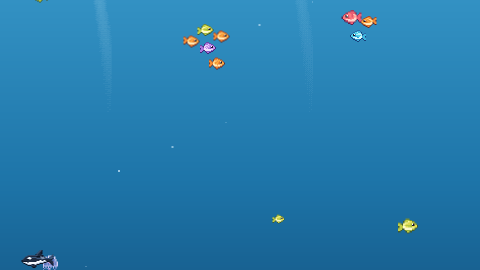
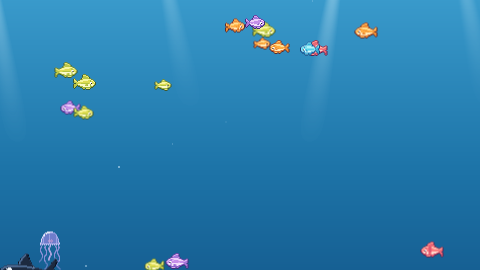
pixel theme: smooth light shafts, README, preview

diff --git a/tools/gen-pixel-theme.js b/tools/gen-pixel-theme.js
@@ -698,7 +698,7 @@ function farImg() {
     const pal = { u: hex(dim('#4a9bb8', 0.55)), v: hex(dim('#3a86a6', 0.62)), z: hex(dim('#2c6f93', 0.62)), r: hex(dim('#4f93b0', 0.58)), q: hex(dim('#356f93', 0.62)), w: hex(dim('#2d8a94', 0.6)) };
     return render(g, pal);
 }
-// light shaft 40x150: a leaning bar of light, dithered in 3 alpha steps, wider and fainter with depth
+// light shaft: a leaning bar of light with a smooth alpha profile, wider and fainter with depth
 function shaftImg() {
     const W = T.SHAFT.cols, H = T.SHAFT.rows, px = Buffer.alloc(W * H * 4);
     for (let y = 0; y < H; y++) {
@@ -707,9 +707,8 @@ function shaftImg() {
             const d = Math.abs(x - (6 + lean + half)) / half;
             if (d >= 1) continue;
             const strength = Math.pow(1 - d * d, 1.3) * Math.pow(1 - t, 1.6);
-            const lvl = Math.min(3, Math.floor(strength * 3.2 + (BAYER[y & 3][x & 3] / 16) * (0.3 + 0.7 * (1 - t))));
-            if (!lvl) continue;
-            const o = (y * W + x) * 4, a = [0, 0.3, 0.55, 0.85][lvl];
+            const o = (y * W + x) * 4, a = Math.min(1, strength * 1.05);
+            if (a < 0.02) continue;
             px[o] = 226; px[o + 1] = 247; px[o + 2] = 255; px[o + 3] = Math.round(a * 255);
         }
     }

diff --git a/contents/ui/code/themes.js b/contents/ui/code/themes.js
@@ -25,7 +25,7 @@ var THEMES = [
     {
         id: "pixel",
         name: "Refined Pixel",
-        description: "Crisp pixel art with light shafts",
+        description: "Crisp pixel art, kelp seabed and light shafts",
         usesDayNight: true,
         usesWaterColors: true
     },

diff --git a/contents/themes/pixel/README.md b/contents/themes/pixel/README.md
@@ -1,0 +1,47 @@
+# Refined Pixel theme (default)
+
+Crisp pixel art in a calm aquarium: a smooth water gradient, soft light shafts, a coral and kelp seabed and a
+cast drawn to believable proportions. The art is generated by `tools/gen-pixel-theme.js`;
+`node tools/gen-pixel-theme.js` rewrites `img/`, `--check` verifies it (run by `npm test`), `--sheet out.png`
+writes a contact sheet of every sprite at 8x, `--scenery out.png` the backdrop textures. `preview.png` is made by
+`node tools/gen-previews.js pixel`.
+
+## Design
+
+1. **One art-pixel scale.** `psFor(height)` = `max(2, round(height / 540))` screen px per texel (1080p: 2).
+   Every creature and every piece of scenery uses it; the size sliders pick the nearest hand-drawn class
+   (`kinds[].classes`) or an integer magnification `mul` of one. Art is never scaled by a fraction.
+2. **Proportions (1080p, default sliders).** fish 20x14 texels = 40x28 px (the size variation picks 17x12 /
+   23x16 = -15 % / +15 %, babies 14x10, newborns 10x7), angler 30x26 = 60x52 px (1.5 fish), orca 60x34 =
+   120x68 px (3 fish), jelly bell 16-24 wide (20 = 40 px, one fish) with tentacles to 1.8x the bell, worm
+   4x6 = 8x12 px, bubbles 3-7 texels = 6-14 px. `Scene.qml` sets `sim.bodyScale = 20 * ps / 28` (the mid fish is 20
+   texels wide) and `sim.top = 20 * ps` so creatures stay below the surface.
+3. **Craft.** Silhouettes (body profiles, polygons) and details are placed by hand and rasterised; 3-4 tones per
+   colour with the light from the top left, a 1 px outline in a dark shade of the creature's own hue (softer on the
+   lit top edge), no orphan texels (tested). Fish have five species with their own markings (bar, freckles,
+   lateral line, light back stripe, pale spots) and fins a shade deeper than the body. The orca has a blunt head,
+   white chin and belly, eye patch, tall swept dorsal fin, paddle flipper and notched flukes. The pixel orca art
+   faces LEFT; the simulation's orca flag is inverted, so `sync.js` flips it exactly like the fish.
+4. **Calm.** The backdrop is static art except for a drifting ripple strip under the waterline, two light shafts
+   that breathe over about a minute and ~40 specks of marine snow. `tests/amiga-measure.js --theme pixel`: with
+   no creatures at most 1 % of the screen differs between any two frames 0.1-10 s apart and no pixel changes
+   faster than 0.5 Hz. Everything stops while `paused`.
+5. **Smooth glide.** Each sim tick (25 Hz) hands the layer a new target (`EntityLayer.target`); one frame loop
+   interpolates every sprite and rounds to whole screen pixels. Delegates are pooled; no per-entity canvas,
+   shader or animation object.
+6. **Stress.** Above stress 0.25 the fish flush towards red in four pre-baked steps (`<colour>-w1..3`, `red`), above
+   1.2 a crimson `alarm` overlay pulses and the fish tremble.
+
+## Layers (back to front)
+
+water gradient (5 stops, day and night sets blended by `daylight`, or the user's two colours) - light shafts -
+waterline + ripple strip - `far.png` (distant hills and hazy plants, bluer and dimmer) - `flora.png` (kelp in three
+greens, staghorn and sea-fan corals, brain corals, tube sponges, grass; roots are hidden by the sand) - `seabed.png`
+(dunes with ripples, rocks, shells, starfish) - marine snow - creatures (jelly, bubble, worm, fish, angler, orca).
+The three seabed textures are 600 texels wide and tile; the sand band is 8 % and the tallest plant 21 % of a
+1080p screen. At night the seabed fades into the dark with `daylight`.
+
+## Files
+
+`theme.js` (descriptor: arts, classes, lure anchors, water stops), `sync.js` (simulation -> sprites),
+`Scene.qml`, `Ambient.qml`, `EntityLayer.qml` (pool + glide), `PixelSprite.qml`, `img/` (generated).
